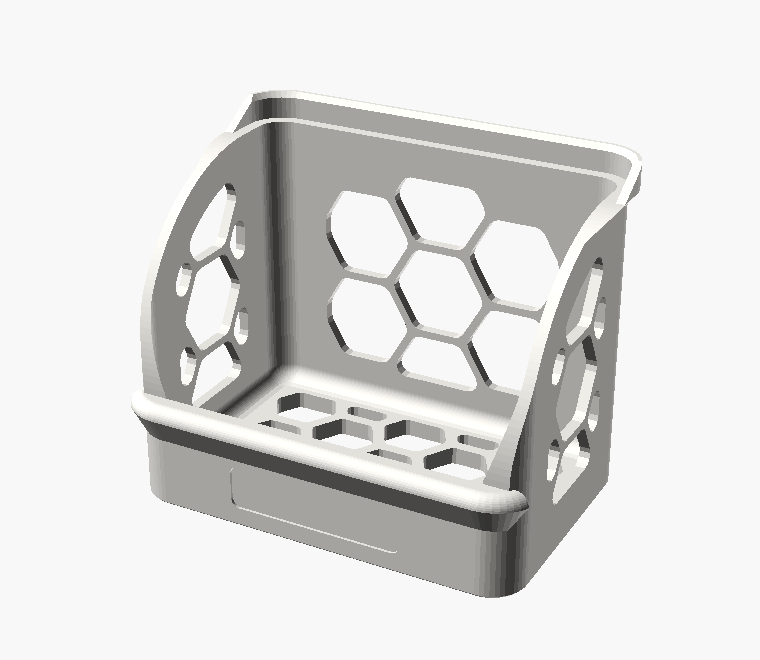
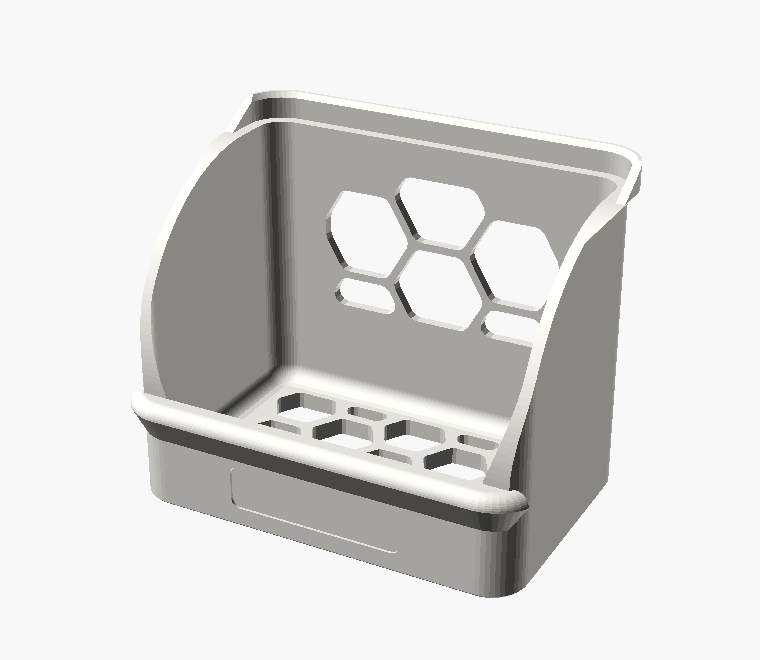
freezer-bin: a test print broke; solid sides, and a corner to snap
A printed cold-test bin snapped under hand force. The photo shows a vertical
honeycomb web parted clean across a horizontal fracture plane -- perpendicular
to the print Z, so it failed along a layer bond, this filament's weak direction
at 20 MPa against 43 in X-Y.

  web cross-section   1.8 x 2.4 = 4.32 mm2
  force to part one   4.32 x 20 = ~86 N

86 N is about 9 kg through one web, which is a hand.

This corrects a margin claimed earlier in the log. The "0.32 MPa against 50 MPa,
150x margin" divided load by the whole 310 mm2 wall section. That is right for a
bin full of food, which spreads weight over every web, and meaningless for a
thumb, which puts all of it through one 4.32 mm2 web. The honeycomb is strong
under distributed load and weak under point load, and nothing in the analysis
said so.

Fix: side walls solid (side_hex = false) and the perforated field starting higher
up the wall (hex_base = 15). The sides are the structural members -- the deep
beams carrying the front cantilever -- and the part a hand grabs; the back and
floor keep the airflow, which is why the perforation is there at all.

It costs 99 g: 277.74 g / 7 h 25 m against 178.76 g / 7 h 30 m, because the sides
are the two largest panels. DESIGN.md tables the cheaper middle grounds --
honeycomb sides with hex_web 3.0 is 208 g and 144 N per web.

New part="break_test": the back corner, 64 x 64 x 71 mm, in its printed
orientation, spanning solid side wall, corner, perforated back and floor fillet.
[…]

Changed region(s): [[0.2118, 0.2727, 0.3329, 0.6364], [0.4237, 0.4242, 0.6961, 0.6061], [0.6961, 0.3939, 0.8171, 0.7576]]

diff --git a/freezer-bin/README.md b/freezer-bin/README.md
@@ -4,9 +4,9 @@
 |---|---|---|
 | ![Open-front honeycomb bin, three-quarter view](img/bin.png) | ![Three bins stacked, each one's front still open](img/stack.png) | ![Section through the rim: the lower bin's flange wraps the bin above](img/joint.png) |
 
-| The cold test piece |
-|---|
-| ![A small version of the same bin, for freezing before committing to the full print](img/cold_test.png) |
+| The cold test piece | The break-test corner |
+|---|---|
+| ![A small version of the same bin, for freezing before committing to the full print](img/cold_test.png) | ![A corner of the bin, for snapping to compare solid against perforated sides](img/break_test.png) |
 
 An open-front stackable storage bin with honeycomb walls and floor, sized to the biggest footprint
 a Bambu P2S bed will take. Stack them and the front of every bin stays open, so you can reach into
@@ -59,7 +59,8 @@ the overall goes back to 248.35 mm.
 
 | File | What it is |
 |---|---|
-| `freezer_bin_print.3mf` | The bin, placed, with the P2S / SUNLU PETG 2.0 profile embedded. **179 g, 7 h 30 m.** |
+| `freezer_bin_print.3mf` | The bin, placed, with the P2S / SUNLU PETG 2.0 profile embedded. **278 g, 7 h 25 m.** |
+| `freezer_bin_break_test_print.3mf` | Two corners to snap — solid sides and perforated sides. **41 g, 1 h 43 m.** |
 | `freezer_bin_cold_test_print.3mf` | Two cold-test bins on one plate. **71 g, 2 h 30 m.** Print this one first. |
 
 Open either in Bambu Studio and slice — the plate, filament and process are already set. The
@@ -82,6 +83,42 @@ PETG is the right material for a freezer. It stiffens as it cools and stays usab
 where PLA turns brittle. Nothing in the design needs changing for the cold: both bins in a stack
 contract by the same ~0.7 mm over 246 mm, so a fit test done on the desk still holds in the
 freezer.
+
+## Why the sides are solid
+
+A test print snapped under hand force: a vertical honeycomb web parted clean across a **horizontal**
+fracture — perpendicular to the print Z, so it failed along a layer bond, which is this filament's
+weak direction at **20 MPa against 43 in X-Y**.
+
+| | |
+|---|---|
+| web cross-section | 1.8 × 2.4 = **4.3 mm²** |
+| force to part one web in Z | **~86 N** |
+
+86 N is about 9 kg through one web — a hand. The honeycomb is strong under distributed load, which
+is what a bin full of food applies, and weak under a point load, which is what a thumb applies.
+
+So the side walls are solid (`side_hex = false`) and the perforated field starts higher up the wall
+(`hex_base = 15`). The sides are the structural members — the deep beams carrying the front
+cantilever — and the part a hand grabs. The back and floor stay open, which is where the airflow
+matters.
+
+It costs **99 g**: 278 g against 179 g, because the sides are the two largest panels. If that is
+too much, `side_hex = true` with `hex_web = 3.0` is 208 g and roughly doubles the per-web force to
+144 N. `DESIGN.md` has the full table.
+
+## Break test
+
+Before committing to any of it, snap a corner. `freezer_bin_break_test_print.3mf` has two on one
+plate — solid sides and perforated sides — for **41 g and 1 h 43 m**.
+
+Each is the back corner, 64 × 64 × 71 mm, spanning the solid side wall, the corner, the start of
+the perforated back and the floor fillet. **Do not reorient them.** The failure was a layer-bond
+failure, so a piece broken in a different frame than it was printed in measures nothing — break
+them standing the way they came off the plate.
+
+What to do: hold the solid wall, push or twist the perforated back, and compare. The perforated-side
+one is the control; it is what broke. Note which web goes and roughly how hard you had to push.
 
 ## Cold test
 
@@ -144,6 +181,8 @@ Everything is at the top of `freezer_bin.scad`. The ones worth knowing:
 | `width`, `depth`, `height` | 200, 246, 150 | Outer body. `depth` is what the bed limits. |
 | `front_h`, `slope_run` | 50, 110 | The front lip, and how far back the sweep rises to full height. |
 | `front_curve` | `true` | The quarter-ellipse sweep. Set `false` for a straight diagonal. |
+| `side_hex` | `false` | Perforate the side walls too. `false` makes them solid — see below. |
+| `hex_base` | 15 | Extra solid wall below the perforated field, on top of `hex_margin`. |
 | `hex_af`, `hex_web` | 20.0, 1.8 | Wall cell size and the material between cells. **The main filament knob.** |
 | `hex_open` | `hex_af/8` | How hard the clipped grid is opened. Drops part-cells at panel edges instead of printing them as little offcuts; it has to scale with the cell. |
 | `floor_hex` | `true` | Perforate the floor. Turn off for a solid floor — costs about 47 g. |
@@ -165,11 +204,13 @@ the full table.
 
 | | Time | Weight |
 |---|---|---|
-| 0.20 mm layers, 16 mm cells, Spiral z-hop | 9 h 14 m | 186 g |
-| **0.24 mm layers, 20 mm cells, Normal z-hop** | **7 h 30 m** | **179 g** |
+| 0.20 mm layers, 16 mm cells, Spiral z-hop, honeycomb sides | 9 h 14 m | 186 g |
+| 0.24 mm layers, 20 mm cells, Normal z-hop, honeycomb sides | 7 h 30 m | 179 g |
+| **the above, with solid sides** | **7 h 25 m** | **278 g** |
 
-That is 1 h 44 m and 8 g, and it costs nothing structural — the margins barely move. Both the bin
-and the cold-test bins use it, which matters: a cold test on different geometry is not a test.
+The speed settings are free — 1 h 44 m and 8 g, and the margins barely move. The 99 g is the solid
+sides, a strength decision rather than a speed one. Every test piece uses the same settings as the
+bin, which matters: a test on different geometry is not a test.
 
 If you want the finer honeycomb back, `hex_af = 16` and the `0.20mm Standard @BBL P2S` process in
 `print_profile.py` return the old look for about 1 h 20 m.

diff --git a/freezer-bin/DESIGN.md b/freezer-bin/DESIGN.md
@@ -532,3 +532,79 @@ Overhang cost checked: sub-45 surface goes 1.19% -> 2.00% of the wall band, and 
 below 30 mm/s 0.35% -> 0.95%. Both are the larger corner radii passing through shallow angles on
 their way round, they sit next to a bridge anchor, and both are far below the 11.7% / 5.05% that
 the pointy-top orientation cost before it was fixed.
+
+## 2026-11-23: a test print broke, and what it taught us
+
+First real print of the cold-test bin. Hand force snapped it.
+
+### What the photo shows
+
+A vertical honeycomb web, parted clean across a **horizontal** fracture plane. Horizontal means
+perpendicular to the print Z, so it failed along a layer bond, in the direction this filament is
+weakest. 3DFP's datasheet: **20 MPa in Z against 43 in X-Y**.
+
+The arithmetic nobody did until the part broke:
+
+| | |
+|---|---|
+| web cross-section | `hex_web` x `wall` = 1.8 x 2.4 = **4.32 mm2** |
+| force to part one web in Z | 4.32 x 20 = **~86 N** |
+
+86 N is about 9 kg pulled through one web, which is a hand.
+
+**This corrects the margin claimed earlier in this log.** The "0.32 MPa against 50 MPa, a 150x
+margin" figure divided the load by the *whole wall cross-section*, 310 mm2. That is right for a
+bin full of food, which spreads its weight over every web in the wall. It is meaningless for a
+thumb, which puts the entire load through one 4.32 mm2 web. Two different numbers, and the
+analysis quoted the flattering one. The honeycomb is strong in distributed load and weak in point
+load, and nothing above said so.
+
+### The fix
+
+Solid side walls, perforation on the back and floor only, and the perforated field starting
+higher up the wall:
+
+```
+side_hex = false;   // side walls solid
+hex_base = 15;      // extra solid wall below the perforated field
+```
+
+The reasoning holds up independently of the break: the side walls are the structural members --
+they are the 150 mm deep beams that carry the front cantilever -- and they are what a hand grabs.
+The back is a panel that holds food in. So the sides get strength and the back and floor keep the
+airflow, which is the reason the perforation is there.
+
+It is expensive: **277.74 g, 7 h 25 m**, against 178.76 g and 7 h 30 m. Ninety-nine grams, because
+the two side panels are the largest in the bin. Measured alternatives, all at 0.24 mm and 20 mm
+cells:
+
+| Sides | `hex_web` | Weight | Time | Force per web |
+|---|---|---|---|---|
+| honeycomb | 1.8 (what broke) | 196.8 g | 7 h 30 m | 86 N |
+| honeycomb | 2.4 | 202.6 g | 7 h 56 m | 115 N |
+| honeycomb | 3.0 | 207.9 g | 7 h 59 m | 144 N |
+| honeycomb, `hex_base=30` | 3.0 | 222.0 g | 7 h 55 m | 144 N |
+| **solid** | - | **277.7 g** | **7 h 25 m** | n/a |
+| solid, `wall=2.0` | - | 276.3 g | 6 h 34 m | n/a |
+
+Note that the back keeps 1.8 mm webs in every one of these, so an 86 N web survives in the solid
+version too -- just nowhere a hand normally goes.
+
+### Break test
+
+`part = "break_test"` is the back corner, 64 x 64 x 71 mm, **in its printed orientation**. That
+last part is the whole experiment: the failure was a layer-bond failure, so a piece broken in a
+different frame than it was printed in measures nothing.
+
+It spans the solid side wall, the corner, the start of the perforated back and the floor fillet,
+so the load path that failed is present end to end.
+
+A plain cube intersection was not enough. The cut slices straight through the honeycomb and leaves
+webs waving in mid-air -- unprintable, and nothing like the real panel, where every web is anchored
+to a solid margin. `bin()` is now split into `shell()` (no holes) and the perforations, so the test
+piece can borrow `shell()` for a 4 mm solid rib down its two cut faces. That is what the real bin
+has, and it makes the test honest.
+
+`make freezer_bin_break_test_print.3mf` puts both versions on one plate -- solid sides and
+perforated sides -- for **40.69 g and 1 h 43 m**, so the fix and the control can be snapped
+back to back.

diff --git a/README.md b/README.md
@@ -12,7 +12,7 @@ Designed and printed on a Bambu Lab P2S (0.4 mm nozzle, AMS).
 | <img src="desk-dial-pod/img/pod_back.png" width="220"> | [desk-dial-pod](desk-dial-pod/) | Round pod for a 1.28" round display and a XIAO ESP32S3, off the edge of a monitor at eye level. Slides onto a Command-strip bracket; two-colour accent ring round the window. | `desk_dial_pod.3mf` (whole plate, P2S profile included) |
 | <img src="desk-dial-knob/img/assembly.png" width="220"> | [desk-dial-knob](desk-dial-knob/) | A rotary-encoder knob in a round head on a neck, gel-taped under a desk. A NeoPixel lights a thin ring of colour at the knob's base. | `desk_dial_knob_housing.3mf`, or the `desk_dial_kh_*.stl` parts |
 | <img src="desk-accent-case/img/stacked.png" width="220"> | [desk-accent-case](desk-accent-case/) | Slim case for a XIAO ESP32S3 and an 8-LED stick, stuck under a monitor's edge to light the stand plate. | `desk_accent.3mf`, or `desk_accent_stacked_*.stl` |
-| <img src="freezer-bin/img/bin.png" width="220"> | [freezer-bin](freezer-bin/) | Open-front stackable bin with honeycomb walls and floor, as deep as a P2S bed will take. Stacked, the front of every bin stays open. | `freezer_bin_print.3mf` (179 g, 7 h 30 m in SUNLU PETG 2.0, P2S profile included); `freezer_bin_cold_test_print.3mf` to freeze first |
+| <img src="freezer-bin/img/bin.png" width="220"> | [freezer-bin](freezer-bin/) | Open-front stackable bin with honeycomb walls and floor, as deep as a P2S bed will take. Stacked, the front of every bin stays open. | `freezer_bin_print.3mf` (278 g, 7 h 25 m in SUNLU PETG 2.0, P2S profile included); `freezer_bin_cold_test_print.3mf` to freeze first |
 
 Each project folder has a `README.md` (pictures, printing, hardware), a `DESIGN.md` (intent, decisions, fit-test results) and a `Makefile`.
 
